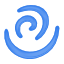
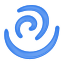
move spinner

diff --git a/src/data/qml/Spinner.qml b/src/data/qml/Spinner.qml
@@ -25,7 +25,7 @@ Image {
     property bool busy: false
 
     opacity: spinner.busy ? 1.0 : 0.0
-    source: 'image://icon/spinner'
+    source: 'images/spinner.png'
     width: 128
     height: 128
 
